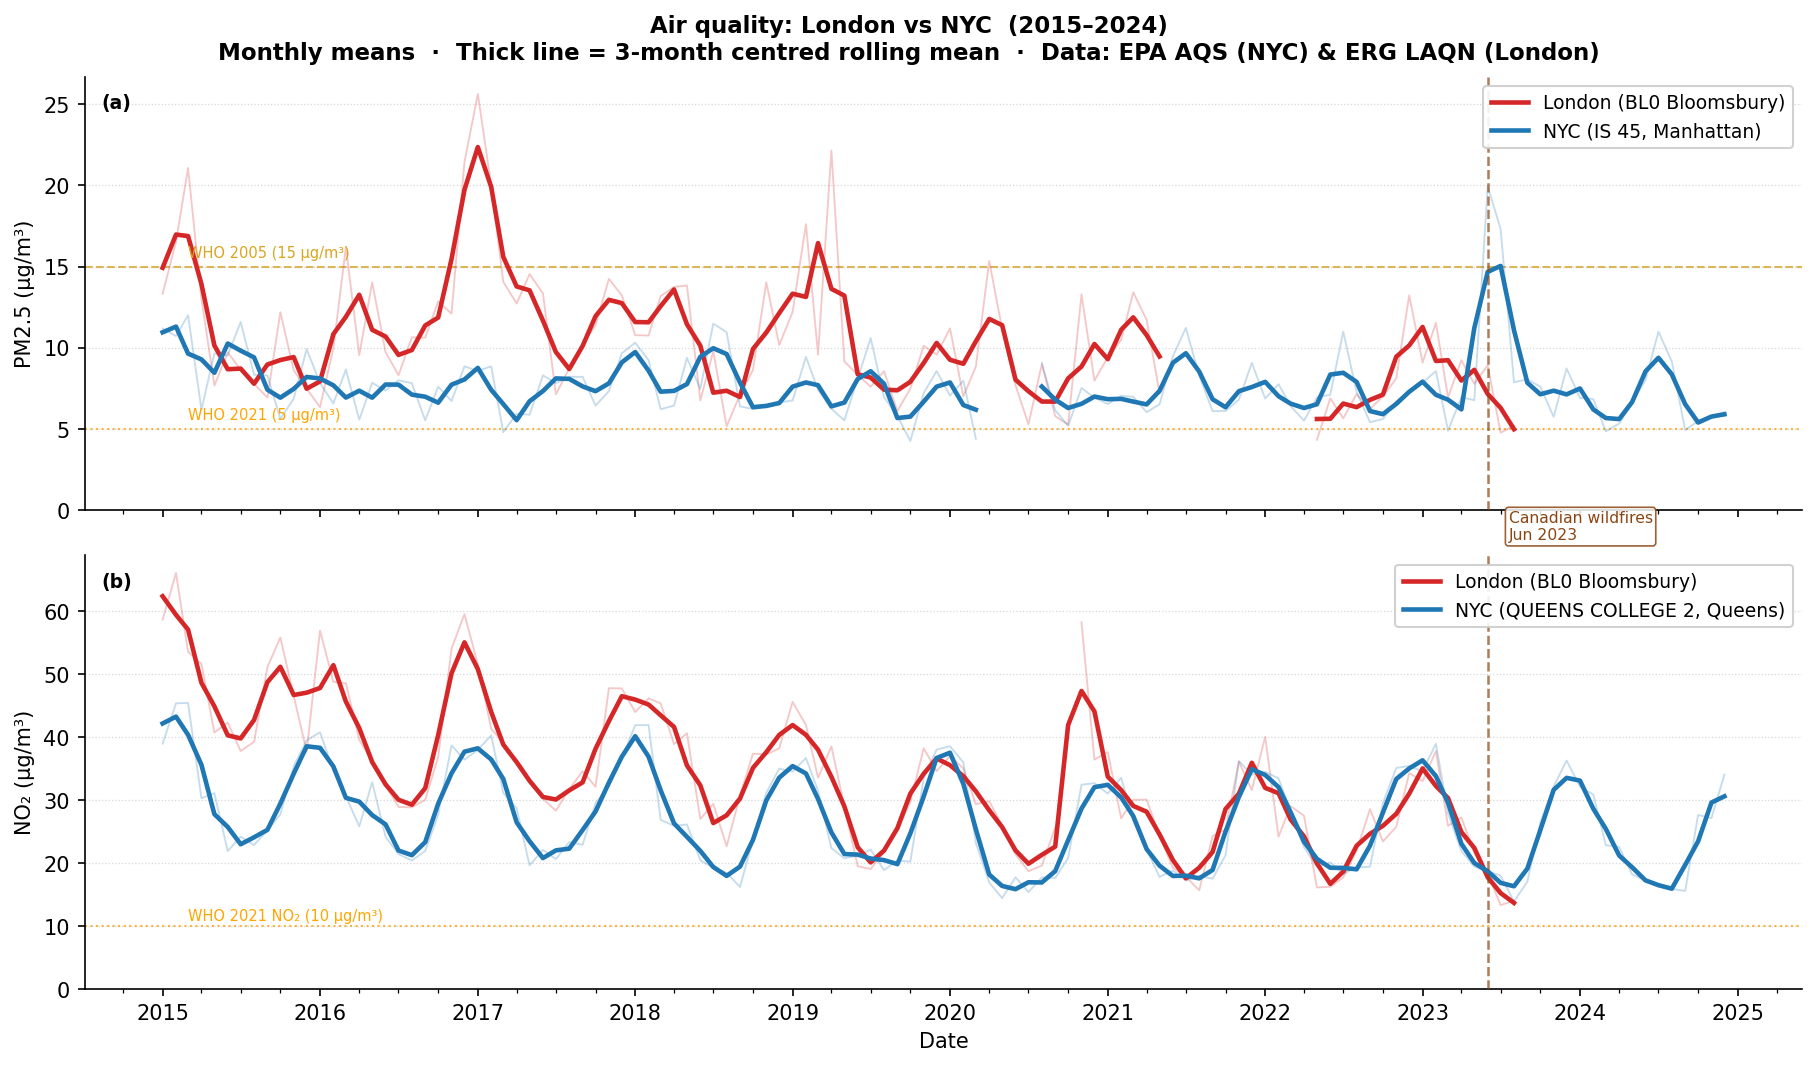
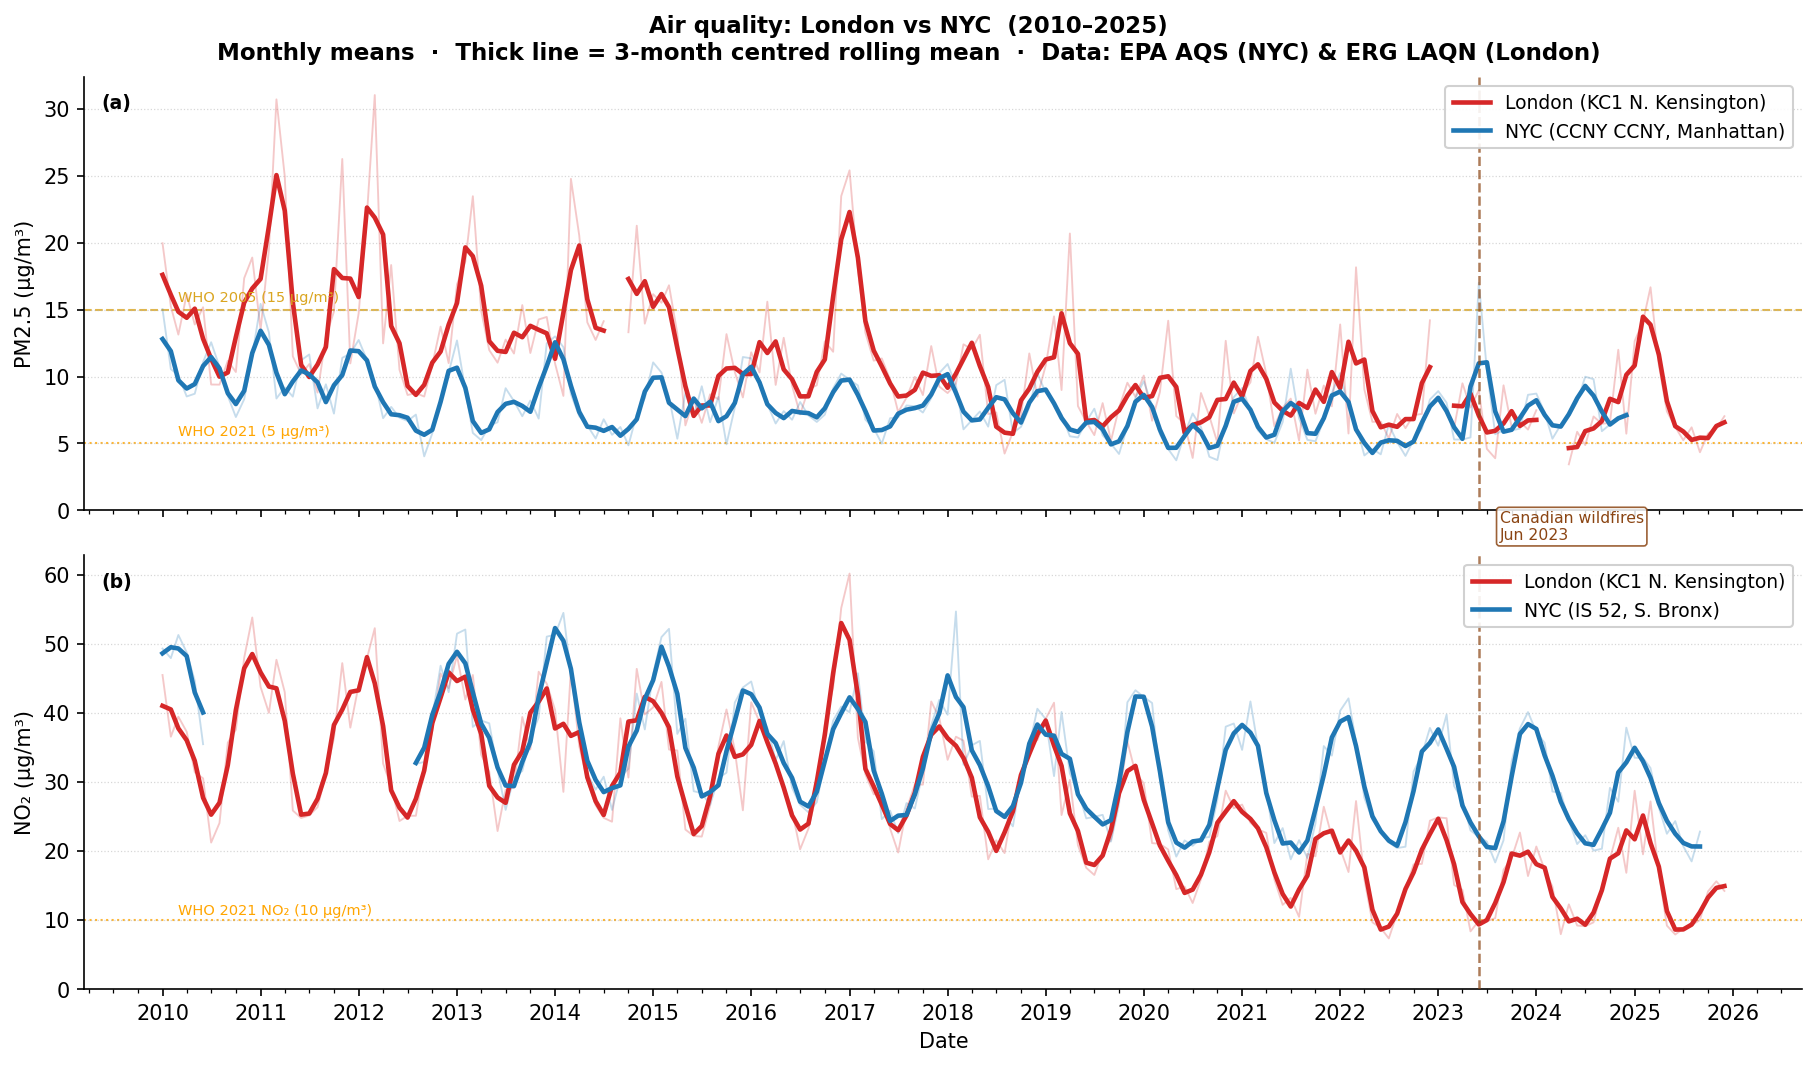
improved air quality figure

diff --git a/scripts/air_quality.py b/scripts/air_quality.py
@@ -56,8 +56,8 @@ from lon_nyc.plots import plot_air_quality
 # ---------------------------------------------------------------------------
 # Configuration
 # ---------------------------------------------------------------------------
-START_YEAR = 2015
-END_YEAR = 2024
+START_YEAR = 2010
+END_YEAR = 2025
 
 # EPA parameter codes
 EPA_PM25 = 88502   # Continuous PM2.5 (BAM/TEOM) — near-complete daily record
